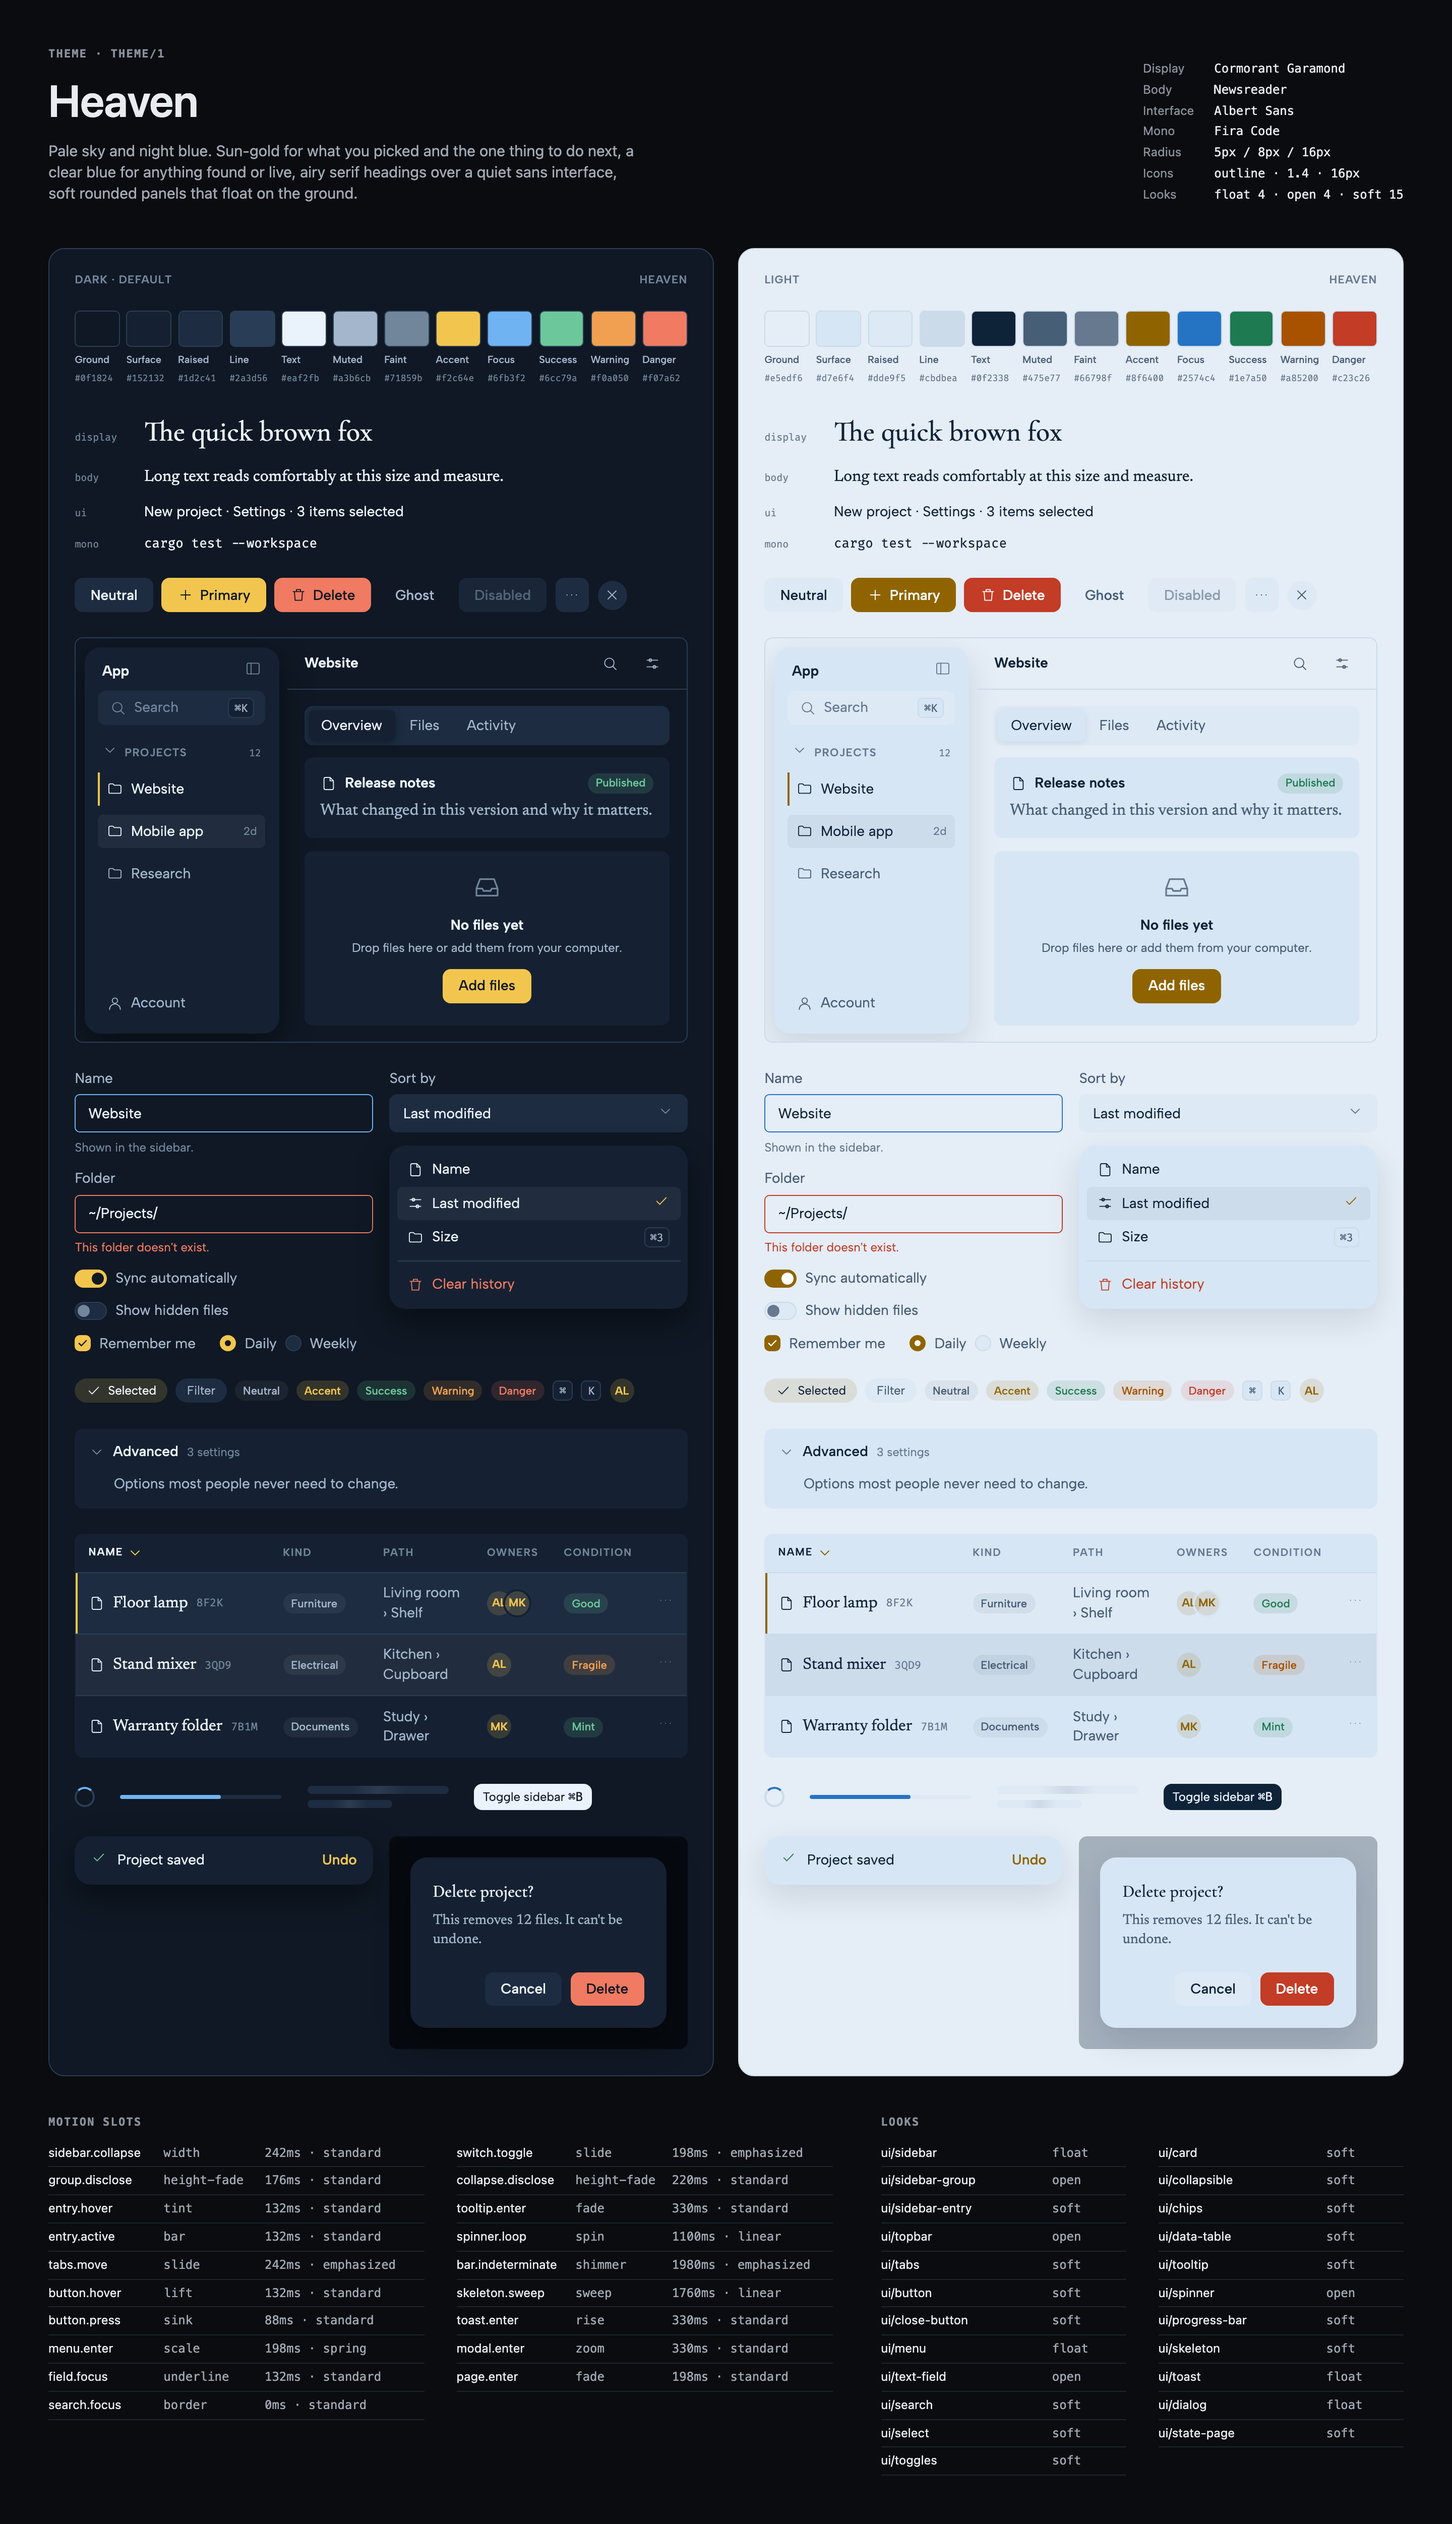
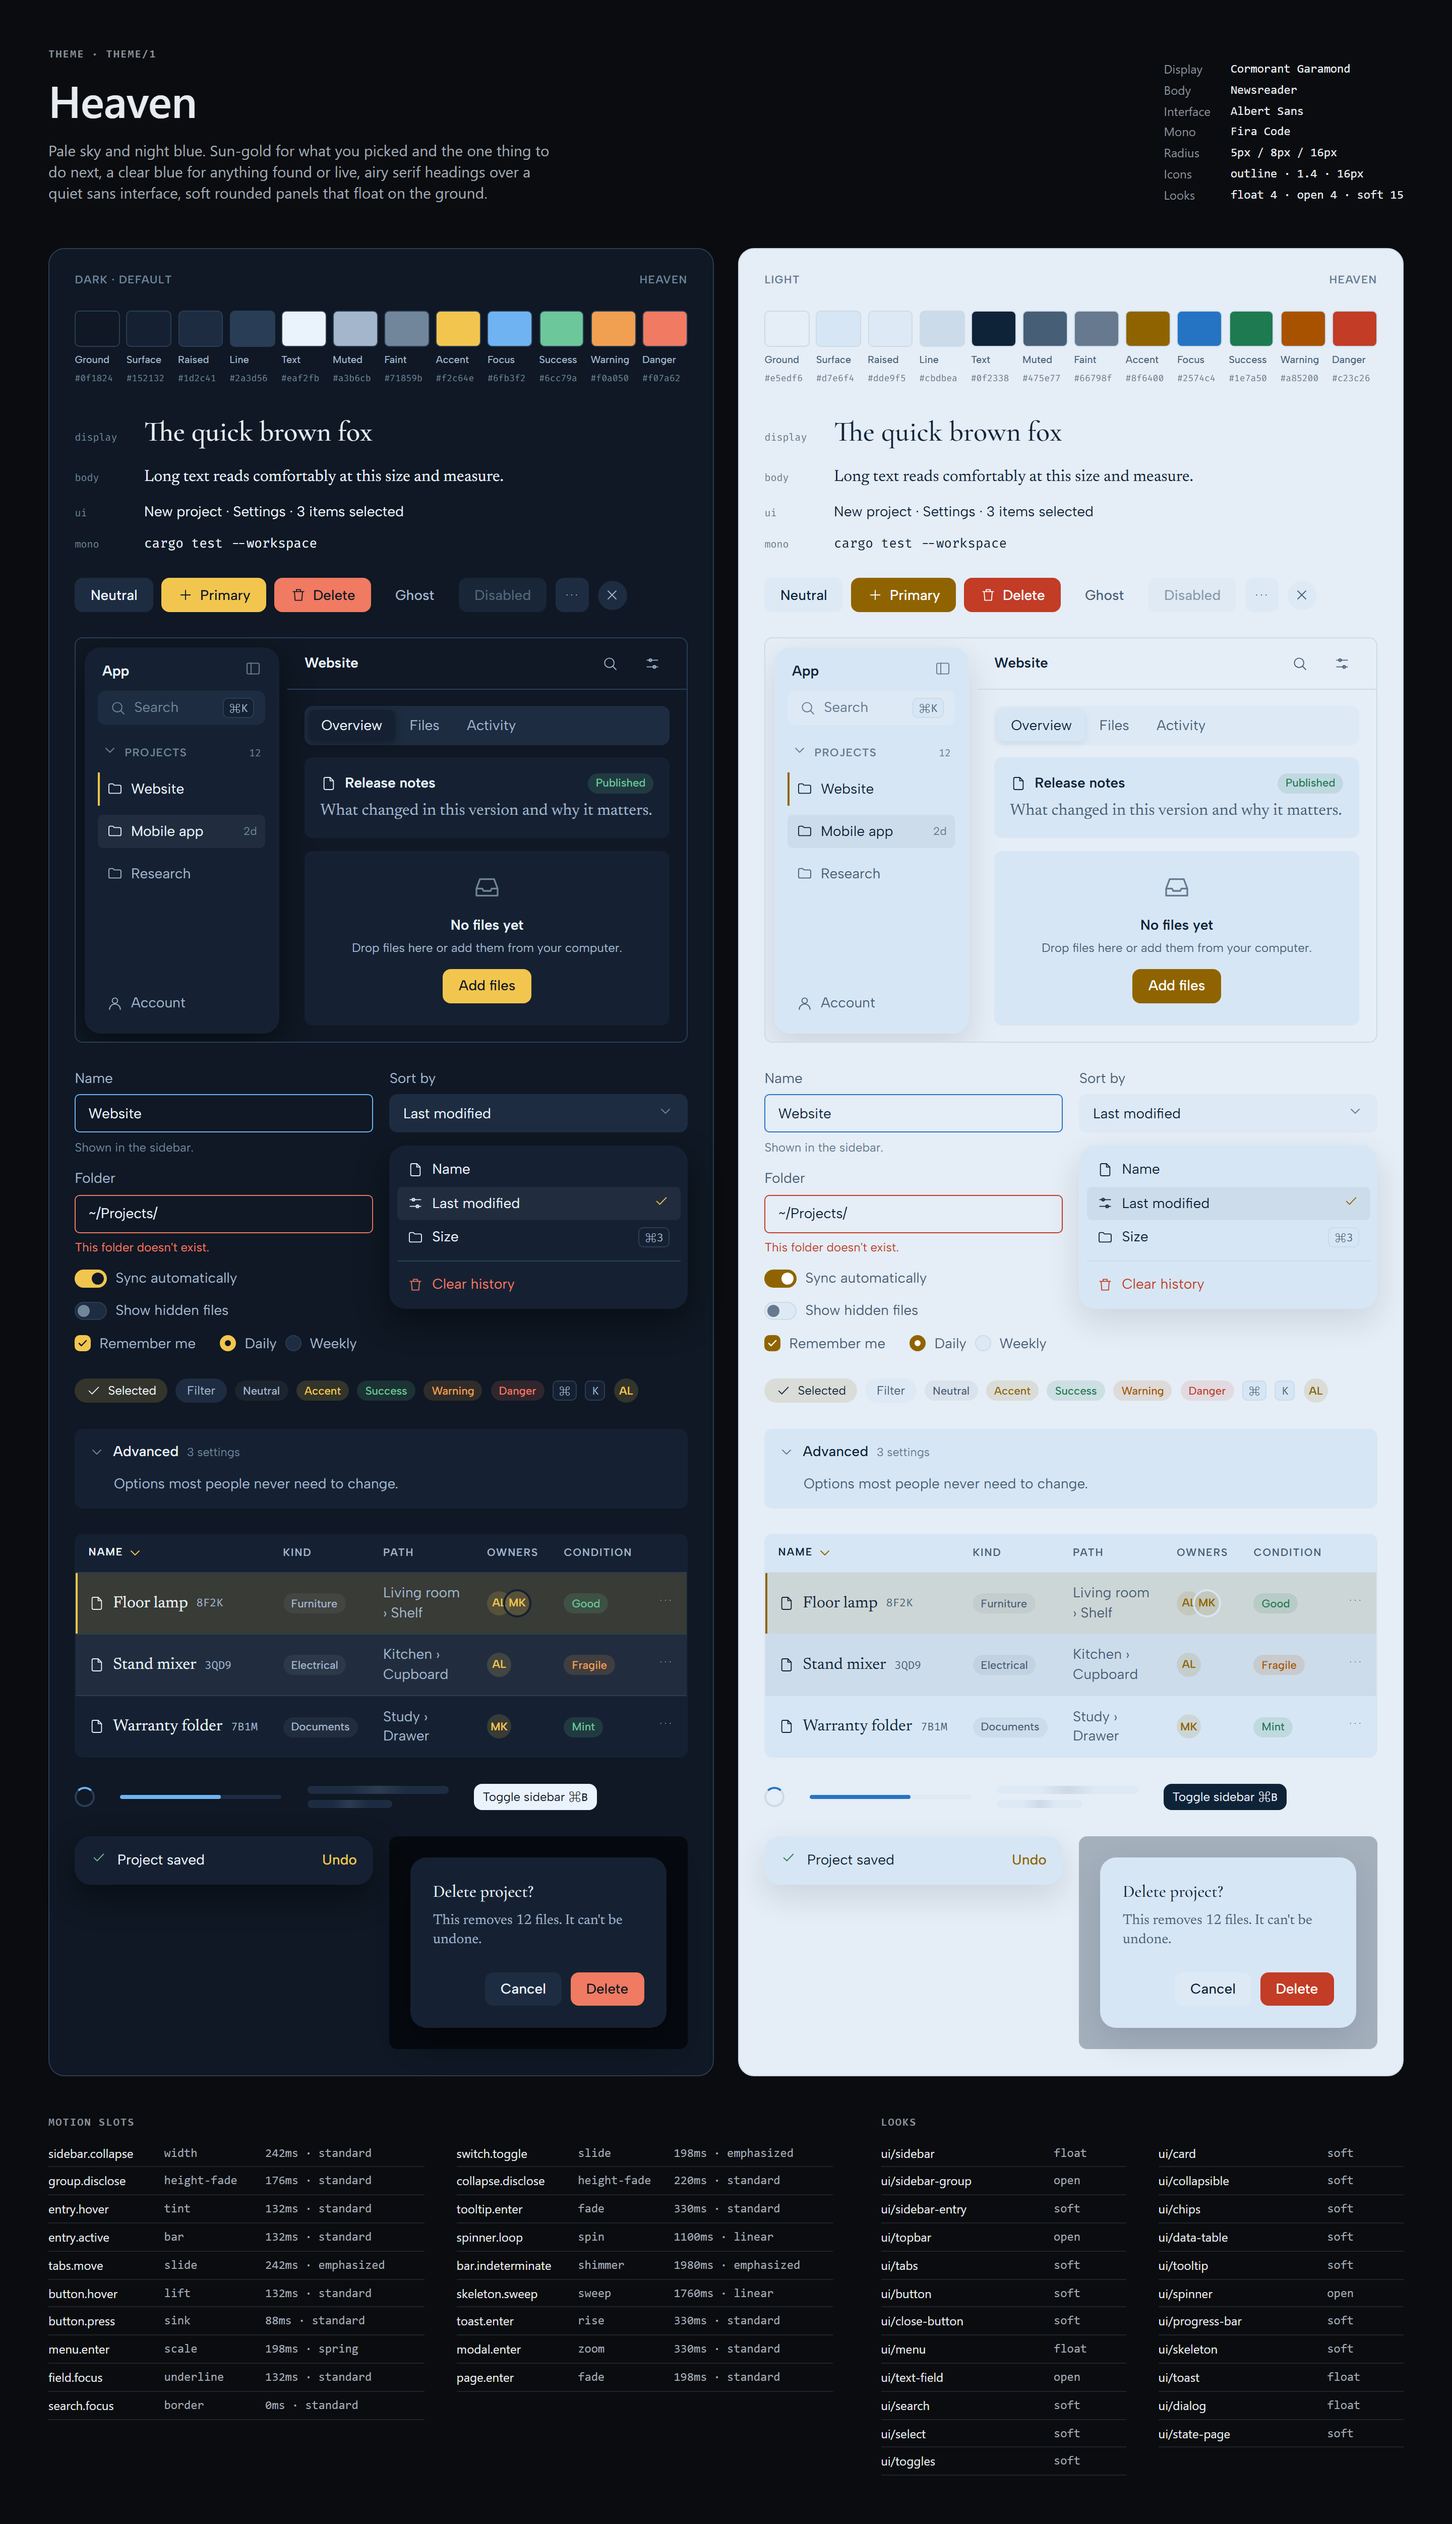
chore(desktop): raise the contrast of small text in the data table

diff --git a/tools/theme-preview/preview.html b/tools/theme-preview/preview.html
@@ -143,21 +143,20 @@
 
 			.dtable { overflow-x: auto; }
 			.dtable table { width: 100%; border-collapse: collapse; }
-			.dtable th { padding: calc(var(--space) * 2.5) calc(var(--space) * 3); text-align: left; font: 600 10.5px/1 var(--font-ui); letter-spacing: 0.09em; text-transform: uppercase; color: var(--text-faint); border-bottom: var(--border-width) solid var(--line); white-space: nowrap; }
+			.dtable th { padding: calc(var(--space) * 2.5) calc(var(--space) * 3); text-align: left; font: 600 10.5px/1 var(--font-ui); letter-spacing: 0.09em; text-transform: uppercase; color: var(--text-muted); border-bottom: var(--border-width) solid var(--line); white-space: nowrap; }
 			.dtable th.sorted { color: var(--text); }
 			.dtable th .dir { display: inline-flex; vertical-align: middle; margin-left: calc(var(--space) * 1); color: var(--accent); }
 			.dtable td { padding: calc(var(--space) * 2.5) calc(var(--space) * 3); border-bottom: var(--border-width) solid var(--line); color: var(--text-muted); }
 			.dtable tr:last-child td { border-bottom: 0; }
 			.dtable td.name { color: var(--text); font-family: var(--font-body); font-size: var(--body-size); }
 			.dtable td.name .cell { display: flex; align-items: center; gap: calc(var(--space) * 2); }
-			.dtable td.name small { font: 11px var(--font-mono); color: var(--text-faint); }
-			.dtable td.end { width: 1%; text-align: right; color: var(--text-faint); }
+			.dtable td.name small { font: 11px var(--font-mono); color: var(--text-muted); }
+			.dtable td.end { width: 1%; text-align: right; }
 			.dtable td.name .cell { white-space: nowrap; }
 			.dtable tr.hover td { background: var(--hover); }
-			.dtable tr.selected td { background: var(--surface-raised); }
+			.dtable tr.selected td { background: var(--accent-soft); }
 			.dtable tr.selected td:first-child { box-shadow: inset 2px 0 0 var(--accent); }
 			.dtable.look-open { border-radius: var(--radius-sm); }
-			.dtable.look-open tr.selected td { background: var(--accent-soft); }
 			.avatars { display: inline-flex; }
 			.avatars .avatar + .avatar { margin-left: -6px; box-shadow: 0 0 0 2px var(--surface); }
 

diff --git a/apps/desktop/src/lib/components/DataTable.svelte b/apps/desktop/src/lib/components/DataTable.svelte
@@ -199,7 +199,8 @@
 		text-align: start;
 		text-transform: uppercase;
 		white-space: nowrap;
-		color: var(--text-faint);
+		/* A column label is content, so it needs 4.5:1 like any other small text. */
+		color: var(--text-muted);
 	}
 
 	th.sorted {
@@ -261,8 +262,10 @@
 		background: var(--hover);
 	}
 
+	/* Selection is the loudest row state: in the light theme `--surface-raised` (1.03:1 against
+	   `--surface`) was quieter than the hover tint, so a selected row read as unselected. */
 	tbody tr.selected td {
-		background: var(--surface-raised);
+		background: var(--accent-soft);
 	}
 
 	tbody tr.selected td:first-child {
@@ -294,7 +297,8 @@
 	small {
 		font-family: var(--font-mono);
 		font-size: calc(var(--ui-size) * 0.8);
-		color: var(--text-faint);
+		/* The short id is content too, so it takes `--text-muted`, not `--text-faint`. */
+		color: var(--text-muted);
 	}
 
 	tr:focus-visible,

diff --git a/apps/desktop/e2e/items.spec.ts b/apps/desktop/e2e/items.spec.ts
@@ -133,11 +133,9 @@ for (const theme of ['light', 'dark'] as const) {
 		expect(await violations(page, { contrast: false })).toEqual([]);
 	});
 
-	// Known finding: the table's small header labels and short ids use `--text-faint`, which is below the
-	// 4.5:1 that WCAG AA asks of small text (docs/themes/heaven.md, Notes). `test.fail` keeps this green while
-	// it is true and goes red once the tokens or the table change, which is the cue to remove it.
+	// With a row selected this also proves the text on the `--accent-soft` selected fill is readable:
+	// that fill is the theme's quietest surface for text in the light theme (4.55:1).
 	test(`table text meets contrast in the ${theme} theme`, async ({ page }) => {
-		test.fail();
 		await useTheme(page, theme);
 		await selectNewItem(page);
 		expect(await violations(page)).toEqual([]);

diff --git a/docs/tests/fragile-places.md b/docs/tests/fragile-places.md
@@ -31,8 +31,8 @@ not covered. Add a row when `/add-tests` or a review finds a new one; remove it 
 |---|---|---|---|
 | `toCommandError` (`errors.ts`) | A thrown value of any shape crashes error handling. It threw for an object with no prototype | Property test over `fc.anything({ withNullPrototype: true })` and an explicit case | |
 | Locale matching (`i18n/index.svelte.ts`) | `de-AT` stops falling back to `de`, a missing key shows nothing | `i18n.test.ts` | Only `en` exists; `de` is injected by the test (issue #10) |
-| `ui/data-table` | Sorting is reported wrongly, a click in the actions cell selects the row, a key on an inner button opens the row | `DataTable.test.ts` | Hover vs selected tint in the light theme is a design question, not tested |
+| `ui/data-table` | Sorting is reported wrongly, a click in the actions cell selects the row, a key on an inner button opens the row | `DataTable.test.ts`; the selected row's fill is pinned in `system.md` so a quieter one has to be argued for in the review | A weaker `--accent-soft` tint would still pass every test, so the picture in `heaven.png` is the only guard |
 | Add-item form | Invalid input reaches the shell, a refusal is shown on the wrong field | `page.test.ts` and `e2e/items.spec.ts` | |
-| Colour contrast of small text | Header labels and short ids use `--text-faint`: 4.26:1 and 3.7:1 against 4.5:1 | `e2e/items.spec.ts` marks it `test.fail()`, so it goes red once fixed | Decision on the token or the table is open (#100) |
+| Colour contrast of small text | Header labels and short ids are moved back onto `--text-faint`, which system.md allows only for placeholders, hints and disabled controls | `e2e/items.spec.ts` runs `axe` with contrast on in both themes, empty, with the form open and with a selected row | jsdom has no layout, so only the browser test measures contrast; nothing measures the ratios themselves |
 | Stand-in for the shell (`e2e/tauri-mock.js`) | It drifts from the real commands, so the smoke tests pass against behaviour that no longer exists | Nothing | A contract test between the mock and the shell (#101) |
 | Menu, Select, Sidebar and the other components (`src/lib/components`) | Keyboard handling and focus (arrow keys wrap, Escape and Tab close), a click outside closes a menu but not on its opener, a submenu opens and returns focus, the sidebar width leaves its limits, a loading button still fires | One test file per component; Sidebar width also by a property over any sequence of arrow keys. Thirteen deliberate breaks in these components each failed at least one test | Real pixels and focus trapping (jsdom has neither), and Menu type-ahead (not implemented) |

diff --git a/docs/themes/system.md b/docs/themes/system.md
@@ -69,10 +69,13 @@ To grow the system, see [Extending](#extending-the-system). To replace it, see [
 
 ### Contrast
 
-Measured against `--ground` and `--surface` in both modes:
+Measured against `--ground`, `--surface`, `--surface-raised` and a `--hover`-tinted fill in both
+modes:
 
 - `--text`, `--text-muted`: at least 4.5:1.
-- `--text-faint`: at least 3:1.
+- `--text-faint`: at least 3:1, and only where WCAG asks for no more — placeholders, hints, and
+  disabled or inactive controls, which it exempts. It is never for text that carries meaning: a
+  column label, a short id or a count is content, so it takes `--text-muted`.
 - Every `--on-*` on its colour: at least 4.5:1.
 - `--accent`, `--focus`, `--danger` as text or icons: at least 3:1.
 
@@ -280,8 +283,8 @@ Small marks: chips (toggle on and off), pills (status), keys (`kbd`) and avatars
 
 A sortable table of rows, such as the items list. Rows open on a click or Enter; a screen supplies the content of cells that are more than text.
 
-- Parts and states: header with sortable columns (unsorted, ascending, descending); rows (default, hover, selected, with an icon, a name and a short ID in the first column); cells of type text or mono, or content from the screen (chips, avatars, a condition meter); trailing overflow menu; horizontal scroll on narrow windows; empty (a `ui/state-page`)
-- Tokens: `--surface`, `--surface-raised`, `--line`, `--hover`, `--text`, `--text-muted`, `--text-faint`, `--accent`, `--font-body`, `--font-mono`
+- Parts and states: header with sortable columns (unsorted, ascending, descending); rows (default, hover, selected, with an icon, a name and a short ID in the first column); cells of type text or mono, or content from the screen (chips, avatars, a condition meter); trailing overflow menu; horizontal scroll on narrow windows; empty (a `ui/state-page`). The selected row is an `--accent-soft` fill with an `--accent` bar on its leading edge, and must read louder than the hover tint
+- Tokens: `--surface`, `--surface-raised`, `--line`, `--hover`, `--text`, `--text-muted`, `--accent`, `--accent-soft`, `--font-body`, `--font-mono`
 - Motion: `entry.hover`
 
 #### Tooltip · `ui/tooltip`

diff --git a/docs/themes/heaven.md b/docs/themes/heaven.md
@@ -186,6 +186,18 @@ Tooltips show after a 250ms hover intent. Toasts sit top-centre and stay for 3s.
   `--accent` `#a87400` → `#8f6400` (text on a filled accent was 4.1:1). Every check now passes in
   both modes; the lowest are light `--text-faint` at 3.5:1 on `--surface` and light `--accent` at
   4.1:1 on `--surface`.
+- `--text-faint` stays this faint because system.md only lets it where WCAG exempts the contrast
+  requirement: placeholders, hints, and disabled or inactive controls. It cannot carry content —
+  at 3.5:1 in the light theme it is below the 4.5:1 that small text needs. The data table therefore
+  takes its column labels and short ids from `--text-muted` instead, the lowest of which is 4.8:1 on
+  a hovered row and 5.4:1 on a selected one. Retuning `--text-faint` to reach 4.5:1 was measured and
+  rejected: in the light theme it lands on `#526173`, 1.06:1 from `--text-muted`, which would leave
+  no visible gap in the text hierarchy.
+- A selected data-table row is an `--accent-soft` fill. `--surface-raised` was too quiet for it: in
+  the light theme it sits 1.03:1 against `--surface`, quieter than the 1.10:1 hover tint, so the
+  selection was invisible. `--accent-soft` measures 1.16:1 there and 1.43:1 in the dark theme. Two
+  consequences to check in the rendered picture: in the light theme the tint composites to a murky
+  `#ced6d7`, and `--text-muted` on it is 4.55:1 — passing, but with almost nothing to spare.
 - Heaven had no success or warning colour. The ones added sit apart from `--accent` by hue in dark
   and by hue and lightness in light, but light `--warning` and `--accent` are both dark ambers:
   compare them in the rendered picture before applying.

diff --git a/ARCHITECTURE.md b/ARCHITECTURE.md
@@ -214,7 +214,6 @@ account and no network dependency. Dependencies point downwards only.
 |---|---|---|
 | Do ADRs 1–15 hold against the MVP prototype? | Every milestone after Foundation | Prototype review; ADRs that fail are removed or superseded |
 | Do people and ownership get their own colour? | Owners and the Shared mark | `adr` issue from the prototype import |
-| Small text in `--text-faint` (table header labels, short ids) is 3.7–4.3:1, below the 4.5:1 of WCAG AA. Darker token or another colour for that text? | Contrast test in `e2e/items.spec.ts` | Theme change in `docs/themes/heaven.md` (#100) |
 | How does a second device get the secrets' data key (ADR 12)? | Sync of licence keys | Spec issue, before sync |
 | Walls fixed low or cut away by camera angle; HTML labels or SDF text (ADR 13)? | Map scene | Spike in the 3D map phase |
 | Lifecycle states (lent, sold, given away) and purchase data | Domain model extension | New ADR when the feature is planned |
